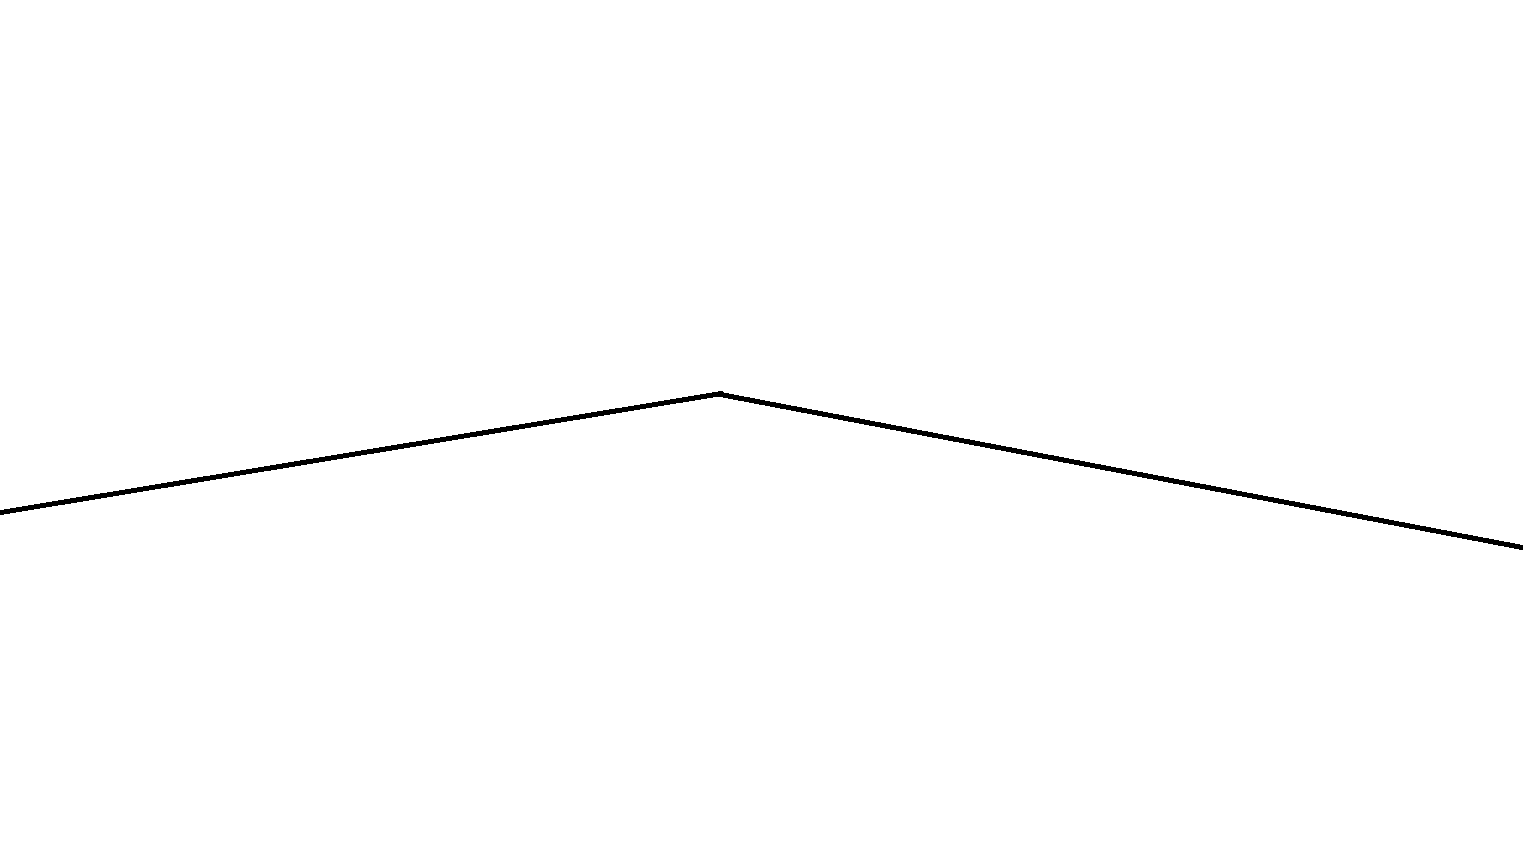
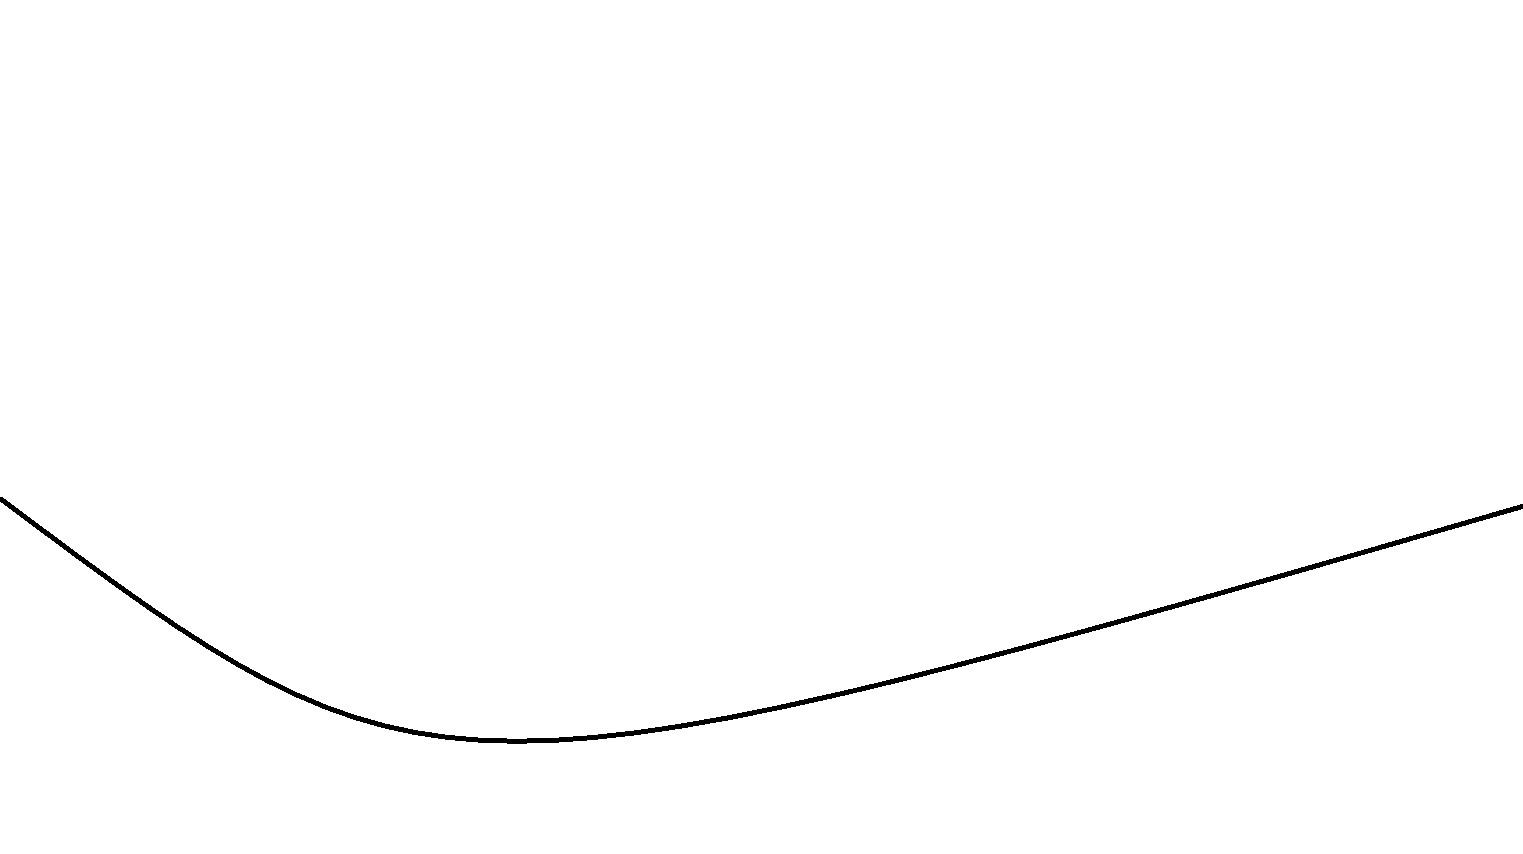
Decreased ram usage dramatically Changed default picture

diff --git a/physical_simulator.py b/physical_simulator.py
@@ -37,7 +37,7 @@ class PhysicalSimulation(Simulation):
         """
         points_coord = []
         for point in self.points:
-            points_coord.append(point.coordinates[time_moment * self.counts_per_frame])
+            points_coord.append(point.coordinates[time_moment])
 
         return points_coord
 
@@ -169,9 +169,10 @@ class PhysicalSimulator(Simulator):
                                    right_point_number.y,
                                    coefficient, length_0, self.delta_time)
                     point.move(self.delta_time)
-                point.make_a_record()
+                if i % self.counts_per_frame == 0:
+                    point.make_a_record()
 
-            if i % 100 == 0:
+            if i % 500 == 0:
                 progressbar.set_percentage(phys_percentage=i / self.calc_count)
             i += 1
 
